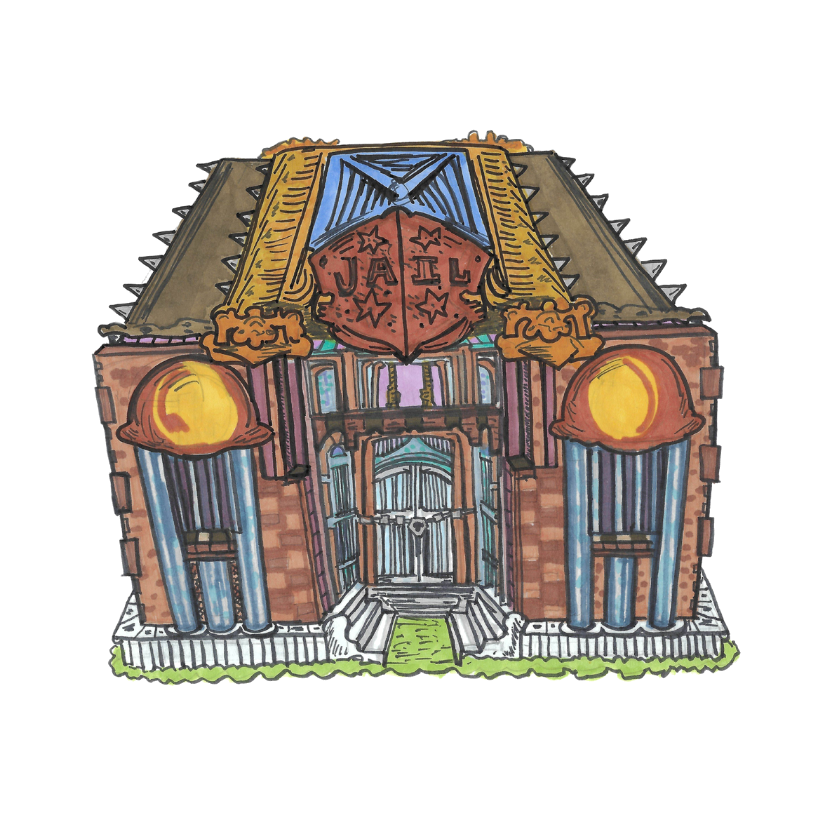
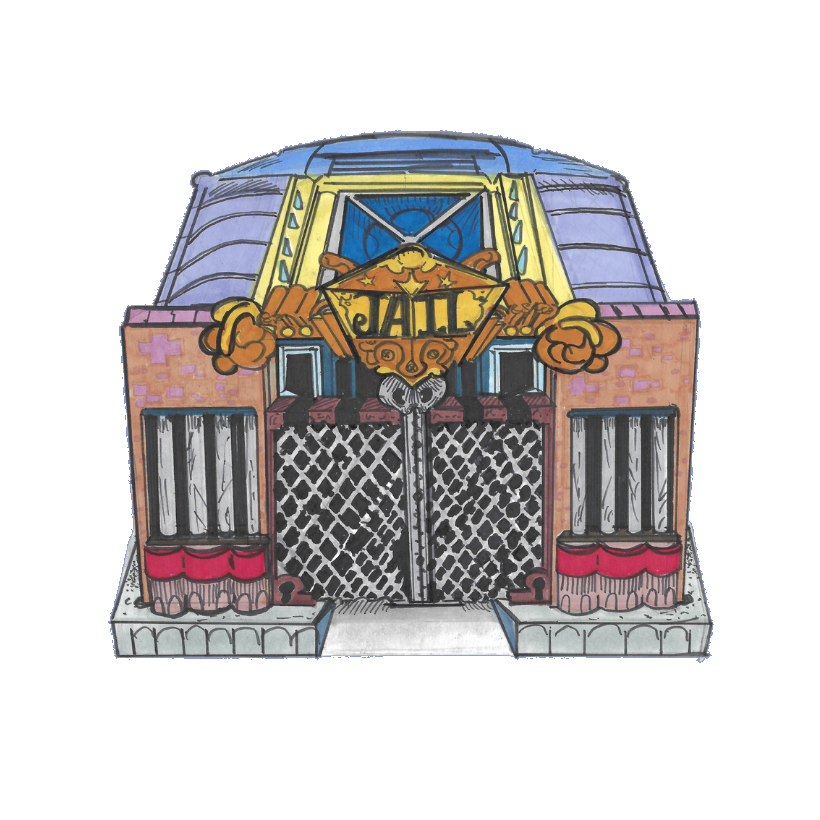
Update location and character visuals

diff --git a/index.html b/index.html
@@ -513,6 +513,19 @@
                         </ul>
                     </div>
 
+                    <div class="location-card stable-card">
+                        <div class="location-icon">
+                            <img src="assets/buildings/stable.png" alt="Stable" class="location-image">
+                        </div>
+                        <h4>Stable</h4>
+                        <ul class="location-rules">
+                            <li>Players can freely enter and leave the stable</li>
+                            <li>While in the stable during your turn, you may discard a card to draw a steed card from
+                                the steed deck</li>
+                            <li>All combat is allowed in the stable</li>
+                        </ul>
+                    </div>
+
                     <div class="location-card emporium-card">
                         <div class="location-icon">
                             <img src="assets/buildings/jacks.png" alt="Jack's Firearm Emporium" class="location-image">
@@ -589,7 +602,7 @@
                                 <h4 class="ability-title">Special Ability</h4>
                                 <p class="ability-text">When involved in combat, roll a 6-sided die:<br><br>
                                     1-4: Nothing happens<br>
-                                    5+: Dodge the attack avoiding all incoming damage</p>
+                                    5+: Dodge the attack avoiding all incoming damage and draw a card</p>
                             </div>
                         </div>
                     </div>
@@ -615,8 +628,12 @@
                                 <h3 class="slinger-name">Daliore</h3>
                                 <h4 class="ability-title">Special Ability</h4>
                                 <p class="ability-text">No limit on equipment cards.<br><br>
-                                    When under half health:<br>
-                                    +1 to attack roll</p>
+                                    Once per turn you may discard a card a roll a 6-sided dice:<br>
+				    1-2: nothing<br>
+				    3-4: draw 1 card<br>
+				    5: draw 2 cards<br>
+	   			    6: draw 3 cards
+				</p>
                             </div>
                         </div>
                     </div>
@@ -695,8 +712,8 @@
                             <div class="ability-content">
                                 <h3 class="slinger-name">Noises</h3>
                                 <h4 class="ability-title">Special Ability</h4>
-                                <p class="ability-text">-1 to opponents attack roll<br><br>
-                                    When attacking, if roll is 6+, there is no falloff.</p>
+                                <p class="ability-text">You may re-roll 1 dice per turn<br><br>
+                                    When attacking, if roll is 6+, close tier damage is used.</p>
                             </div>
                         </div>
                     </div>
@@ -775,9 +792,8 @@
                             <div class="ability-content">
                                 <h3 class="slinger-name">Ghala</h3>
                                 <h4 class="ability-title">Special Ability</h4>
-                                <p class="ability-text">When only wielding a single weapon:<br>
-                                    -0.5 to falloff<br>
-                                    +1 to damage per shot</p>
+                                <p class="ability-text">+1 squares to each range tier<br>
+                                    +1 to attack roll when wielding a single weapon.</p>
                             </div>
                         </div>
                     </div>
@@ -838,9 +854,7 @@
                     <div class="slinger-card-inner">
                         <div class="slinger-card-front">
                             <div class="slinger-portrait">
-                                <div
-                                    style="width: 100%; height: 100%; display: flex; align-items: center; justify-content: center; background: rgba(0,0,0,0.3); color: var(--accent-gold); font-size: 2rem; font-weight: bold;">
-                                    ?</div>
+                                <img src="assets/characters/boone.png" alt="Boone" class="character-image boone-sage-large">
                             </div>
                             <div class="slinger-info">
                                 <h3 class="slinger-name">Boone</h3>
@@ -856,7 +870,7 @@
                                 <p class="ability-text">+1 <img src="assets/icons/steed.png" alt="Speed"
                                         class="inline-icon"> to steeds<br><br>
                                     +1 to attack roll when on a steed<br><br>
-                                    Discard 3 cards to send any player to jail (as if you played a Sheriff card)</p>
+                                    Choose from the top 3 cards when drawing from the steed deck</p>
                             </div>
                         </div>
                     </div>
@@ -866,9 +880,7 @@
                     <div class="slinger-card-inner">
                         <div class="slinger-card-front">
                             <div class="slinger-portrait">
-                                <div
-                                    style="width: 100%; height: 100%; display: flex; align-items: center; justify-content: center; background: rgba(0,0,0,0.3); color: var(--accent-gold); font-size: 2rem; font-weight: bold;">
-                                    ?</div>
+                                <img src="assets/characters/sage.png" alt="Sage" class="character-image boone-sage-large">
                             </div>
                             <div class="slinger-info">
                                 <h3 class="slinger-name">Sage</h3>
@@ -883,7 +895,7 @@
                                 <h4 class="ability-title">Special Ability</h4>
                                 <p class="ability-text">Cannot be sent to jail<br><br>
                                     Rope cards do not affect her<br><br>
-                                    When she uses rope cards, they cannot be cut</p>
+                                    Pet abilities may be used twice per turn</p>
                             </div>
                         </div>
                     </div>

diff --git a/styles.css b/styles.css
@@ -983,6 +983,11 @@ html {
     z-index: 2;
 }
 
+.character-image.boone-sage-large {
+    transform: translateY(18px) scale(1.25);
+    transform-origin: center bottom;
+}
+
 .hero-logo {
     max-width: 500px;
     width: 80%;
